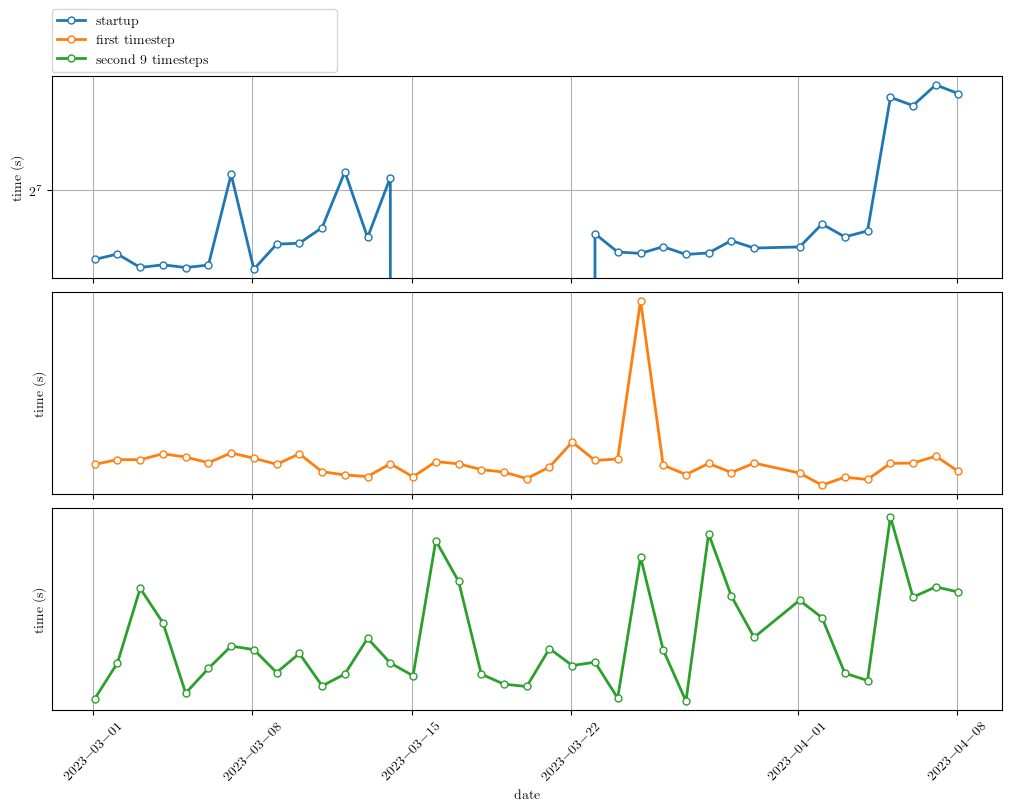
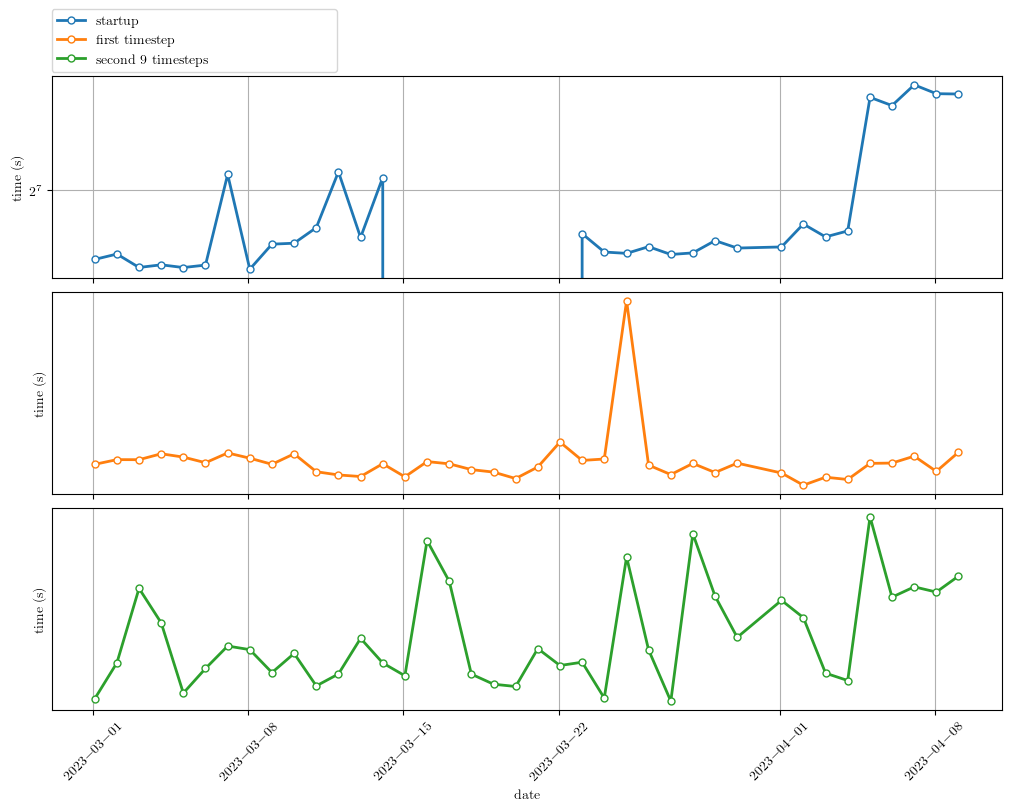
Automatic timing summary commit: lassen708 2023-04-09 01:01

diff --git a/README.md b/README.md
@@ -1,4 +1,4 @@
-Timings last ran on: 2023.04.08
+Timings last ran on: 2023.04.09
 
 # Status of production timings
 
